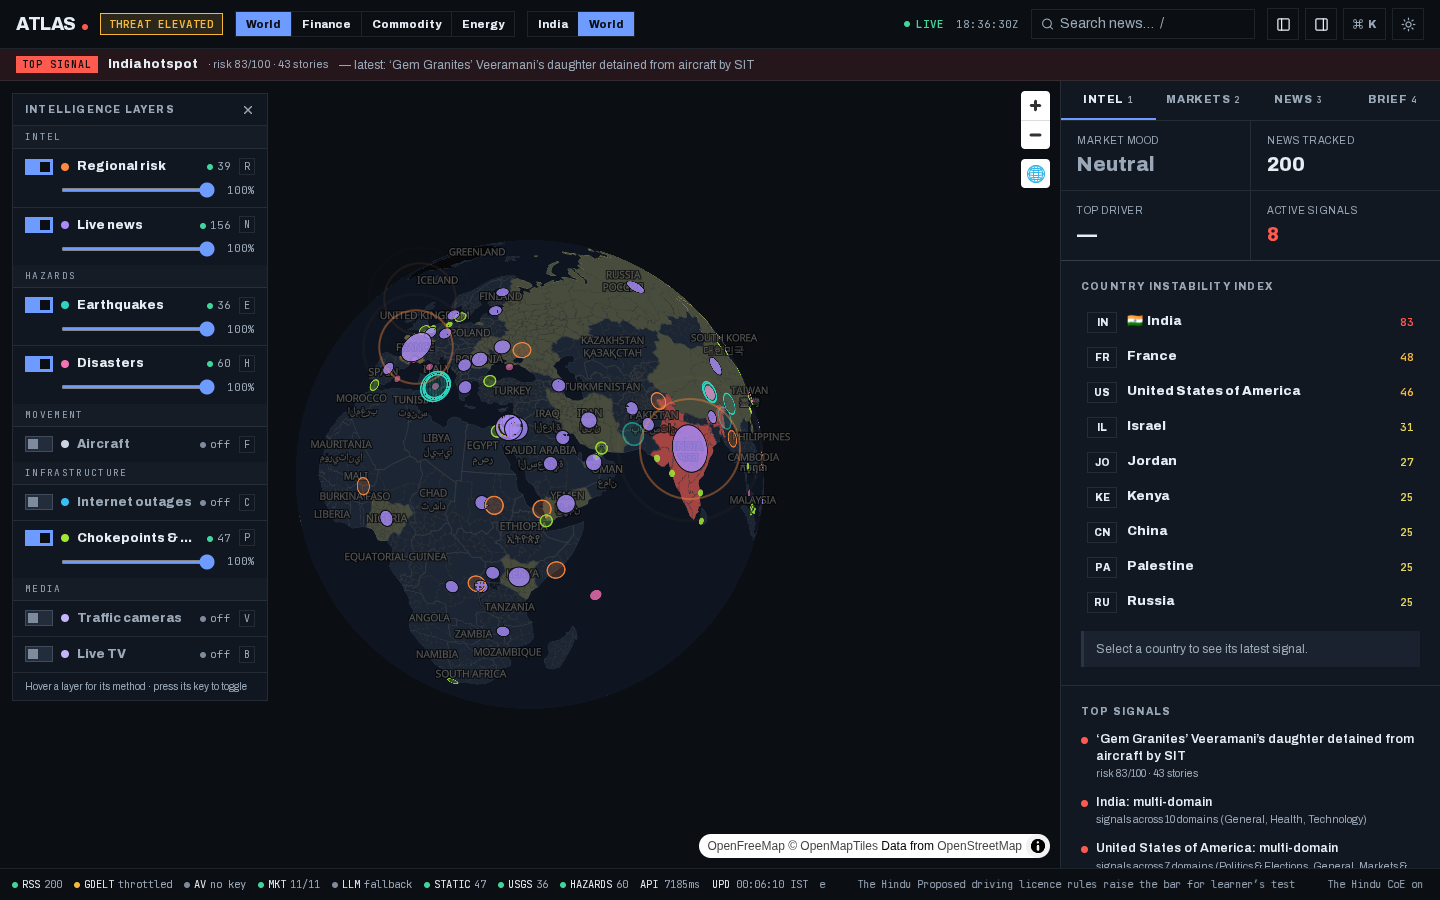
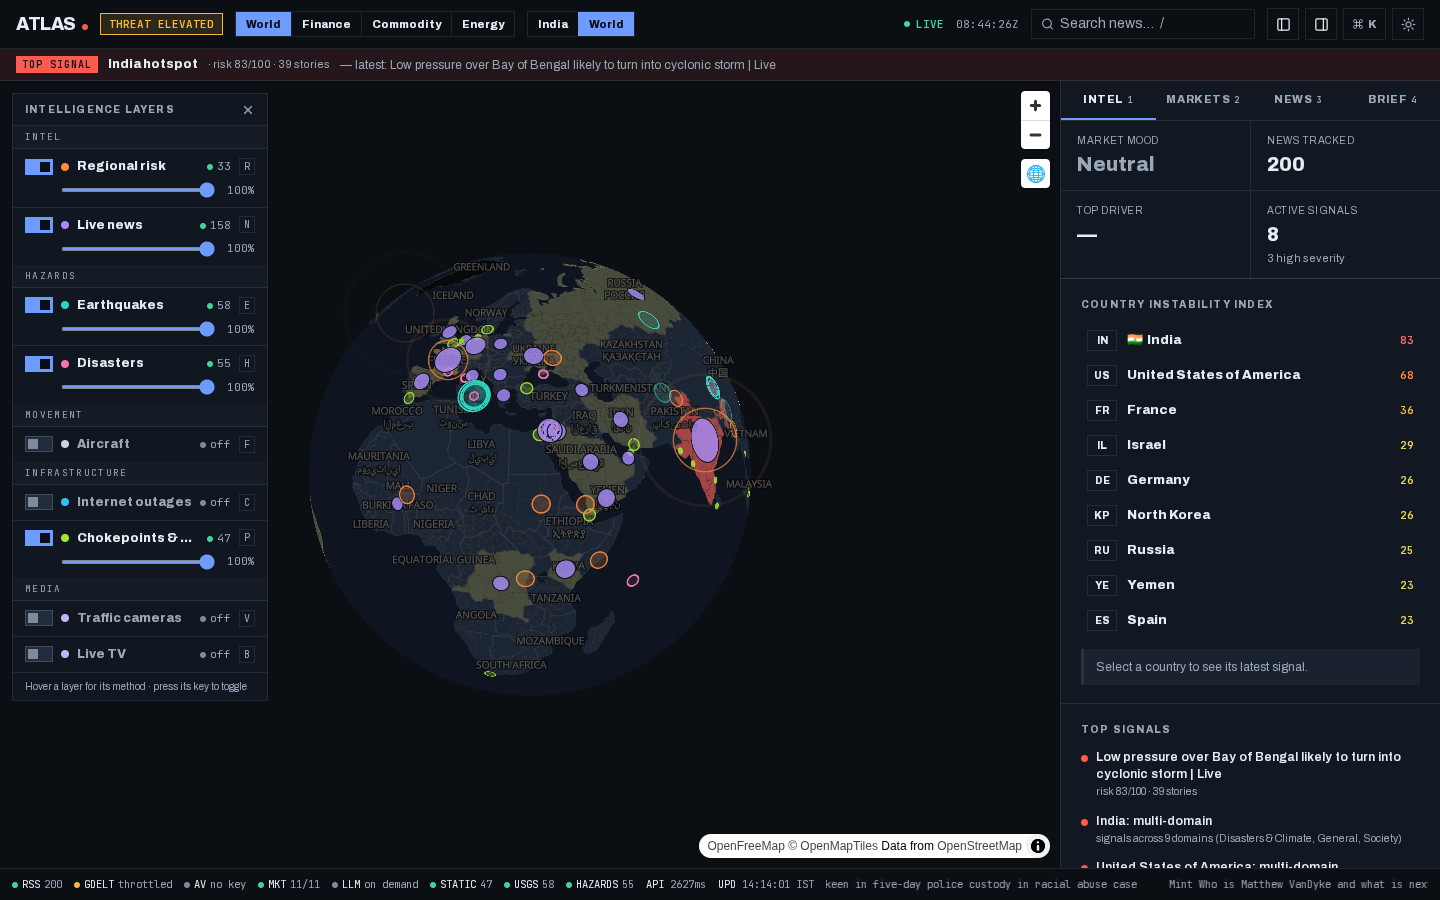
feat: tell disaster types apart on the map; calmer Active Signals; light README shot
- Disasters stay one hue, but the marker style now carries the kind of event:
  solid = fire/heat (wildfire, volcano, heatwave, drought), hollow ring = water
  (flood, storm, tsunami, snow), soft = ground/other (landslide, haze, ...).
  hazardStyle() in src/layers/hazards.ts is pure and tested; the layer
  description in the dock explains the legend.
- Active Signals no longer turns red when any high-severity signal exists (red
  is reserved for severe scores and the pill). The count of high-severity
  signals is a plain-text note under the number instead.
- README: dark and light screenshots side by side, and a line on the newer
  features (marker styles, dock source warnings, KEV panel).

Claude-Session: https://claude.ai/code/session_01BqXDLKYGdjR721wpeWoRVW

diff --git a/src/map/deckLayers.ts b/src/map/deckLayers.ts
@@ -7,6 +7,7 @@ import type { GeoItem } from "@/layers/types";
 import type { LiveData } from "@/layers/useLiveLayers";
 import type { CountryCluster } from "@/lib/news";
 import { flightItem } from "@/layers/flights";
+import { hazardStyle } from "@/layers/hazards";
 import type { FlightTuple } from "@/server/live";
 import type { LayerId, LayerState } from "@/state/types";
 
@@ -138,9 +139,13 @@ export const liveLayers = ({ data, zoom, layers, selectedId, dark, onHover, onCl
         opacity: layers.hazards.opacity,
         getPosition: (d) => lift(d.coord),
         getRadius: (d) => (d.severity === "high" ? 9 : d.severity === "medium" ? 6.5 : 4.5),
-        getFillColor: (d) => withAlpha(c.disasters, SEV_ALPHA[d.severity]),
-        getLineColor: withAlpha(c.outline, 0.63),
-        getLineWidth: (d) => ring(d.id) * (d.source === "GDACS" ? 1.5 : 0.75),
+        // One hue, three styles (see src/layers/hazards.ts): solid = fire/heat, ring = water/storm, soft = other.
+        getFillColor: (d) => {
+          const style = hazardStyle(d.category);
+          return withAlpha(c.disasters, style === "heat" ? SEV_ALPHA[d.severity] : style === "water" ? 0.1 : 0.4);
+        },
+        getLineColor: (d) => (hazardStyle(d.category) === "heat" ? withAlpha(c.outline, 0.63) : withAlpha(c.disasters, 1)),
+        getLineWidth: (d) => ring(d.id) * (hazardStyle(d.category) === "water" ? 2 : d.source === "GDACS" ? 1.5 : 0.75),
         updateTriggers: { getLineWidth: [selectedId] }
       })
     );

diff --git a/src/components/modules/KpiStrip.tsx b/src/components/modules/KpiStrip.tsx
@@ -5,6 +5,8 @@ interface Kpi {
   label: string;
   value: string;
   accent?: string;
+  /** Small muted line under the value. Plain text, so meaning never depends on colour. */
+  note?: string;
 }
 
 /** Top KPI strip: sentiment-first summary of the live news/signals feed. */
@@ -17,7 +19,7 @@ export function KpiStrip({ metrics }: { metrics: Metrics }) {
     { label: "Market Mood", value: s.overall.label, accent: sentimentColor(s.overall.bucket) },
     { label: "News Tracked", value: compactNumber(metrics.news.length) },
     { label: "Top Driver", value: topDriver ? topDriver.ticker : "—", accent: topDriver ? sentimentColor(topDriver.label) : undefined },
-    { label: "Active Signals", value: compactNumber(metrics.signals.length), accent: highSignals ? "var(--sev-5-text)" : undefined }
+    { label: "Active Signals", value: compactNumber(metrics.signals.length), note: highSignals ? `${highSignals} high severity` : undefined }
   ];
 
   return (
@@ -28,6 +30,7 @@ export function KpiStrip({ metrics }: { metrics: Metrics }) {
           <p className="text-xl font-bold" style={c.accent ? { color: c.accent } : undefined}>
             {c.value}
           </p>
+          {c.note && <p className="text-[11px] text-muted">{c.note}</p>}
         </article>
       ))}
     </section>

diff --git a/src/layers/hazards.ts b/src/layers/hazards.ts
@@ -1,0 +1,20 @@
+// Disaster markers share one hue (the "disasters" category colour) so the palette stays
+// calm; the *kind* of event is carried by marker style instead.
+export type HazardStyle = "heat" | "water" | "ground";
+
+const HEAT = new Set(["wildfires", "volcanoes", "tempExtremes", "drought"]);
+const WATER = new Set(["floods", "severeStorms", "tsunami", "snow"]);
+
+/**
+ * heat   -> solid disc   (fire, volcano, heatwave, drought)
+ * water  -> hollow ring  (flood, storm, tsunami, snow)
+ * ground -> soft disc    (earthquake alert, landslide, dust/haze, anything else)
+ * Categories are EONET ids; GDACS types are mapped onto the same ids server-side.
+ */
+export const hazardStyle = (category: string | undefined): HazardStyle => (HEAT.has(category ?? "") ? "heat" : WATER.has(category ?? "") ? "water" : "ground");
+
+export const HAZARD_STYLE_LABEL: Record<HazardStyle, string> = {
+  heat: "solid = fire / heat",
+  water: "ring = water / storm",
+  ground: "soft = ground / other"
+};

diff --git a/src/layers/hazards.test.ts b/src/layers/hazards.test.ts
@@ -1,0 +1,15 @@
+import { describe, expect, it } from "vitest";
+
+import { hazardStyle } from "./hazards";
+
+describe("hazardStyle", () => {
+  it("groups EONET/GDACS categories into three marker styles", () => {
+    for (const c of ["wildfires", "volcanoes", "tempExtremes", "drought"]) expect(hazardStyle(c), c).toBe("heat");
+    for (const c of ["floods", "severeStorms", "tsunami", "snow"]) expect(hazardStyle(c), c).toBe("water");
+    for (const c of ["earthquakes", "landslides", "dustHaze"]) expect(hazardStyle(c), c).toBe("ground");
+  });
+  it("treats unknown or missing categories as ground", () => {
+    expect(hazardStyle(undefined)).toBe("ground");
+    expect(hazardStyle("somethingNew")).toBe("ground");
+  });
+});

diff --git a/src/layers/registry.ts b/src/layers/registry.ts
@@ -52,7 +52,7 @@ export const LAYERS: LayerDef[] = [
     group: "Hazards",
     hotkey: "h",
     swatch: "var(--cat-disasters)",
-    description: "Open natural events (storms, wildfires, volcanoes, floods) plus current GDACS impact alerts. Sea-ice tracking and minor (green) GDACS wildfires excluded.",
+    description: "Open natural events (storms, wildfires, volcanoes, floods) plus current GDACS impact alerts. Marker style shows the kind: solid = fire / heat, ring = water / storm, soft = ground / other. Sea-ice tracking and minor (green) GDACS wildfires excluded.",
     source: "NASA EONET · GDACS"
   },
   {

diff --git a/README.md b/README.md
@@ -11,7 +11,9 @@ Real-time global situational-awareness console — country risk, cross-stream si
 
 **Live:** https://atlas-eight-fawn.vercel.app
 
-![Atlas console: layer dock, globe with risk choropleth, quakes, disasters and chokepoints, intel panel with the country instability index](docs/screenshots/console.png)
+| Dark | Light |
+| --- | --- |
+| ![Atlas console, dark theme: layer dock, globe with the severity-ramp risk choropleth, quakes, disasters and chokepoints, intel panel with the country instability index](docs/screenshots/console.png) | ![Atlas console, light theme: the same view](docs/screenshots/console-light.png) |
 
 ## Stack
 
@@ -99,7 +101,7 @@ Resilience: every upstream self-falls-back; the route coalesces concurrent cold 
 ## Console
 
 - Full-bleed globe with a floating **layer dock** (live entity counts, status, opacity), a docked **intel panel** (Intel · Markets · News · Brief), and a **status rail** showing which sources contributed to the current refresh, API latency and a headline tape.
-- **Nine layers** in five groups: regional risk, live news, earthquakes, disasters, aircraft, internet outages, chokepoints & ports, traffic cameras, live TV. Each fetches only while it's on, polls at a cadence matched to its source, pauses in background tabs, and reports status/count/errors to the dock. Small slow-moving layers persist to localStorage and repaint instantly on reload.
+- **Nine layers** in five groups: regional risk, live news, earthquakes, disasters, aircraft, internet outages, chokepoints & ports, traffic cameras, live TV. Disaster markers share one hue and show the kind of event by style (solid = fire / heat, ring = water / storm, soft = ground / other), and the layer dock warns when one source behind a layer (say GDACS) is down. The Intel tab lists the newest CISA Known Exploited Vulnerabilities while the internet-outage layer is on. Each fetches only while it's on, polls at a cadence matched to its source, pauses in background tabs, and reports status/count/errors to the dock. Small slow-moving layers persist to localStorage and repaint instantly on reload.
 - Aircraft are fetched for the visible box only (zoom ≥ 4, 2°-quantized so pans share cache keys) and drawn radar-style: a dot at barometric altitude plus a heading tail scaled to ground speed.
 - Click a camera or TV marker for a floating viewer (map stays interactive). Click anything else, pick a country, or press `G` and click any point to open the **inspector**. It shows facts and the source link, the country found by point-in-polygon on the loaded geometry, events within 500 km by great-circle distance, a coverage/event timeline, and the latest matching headlines.
 - **AI situational brief** on demand. It's generated only from the facts and headlines the inspector shows: the prompt forbids outside knowledge and treats headline text as data. It uses Atlas's shared free-tier keys through `/api/brief` (input validation, LRU cache, per-IP rate limit, rule-based fallback). With **bring your own key**, the browser calls Groq or OpenRouter directly (both allow CORS), so the key stays in localStorage and never reaches Atlas's server.
